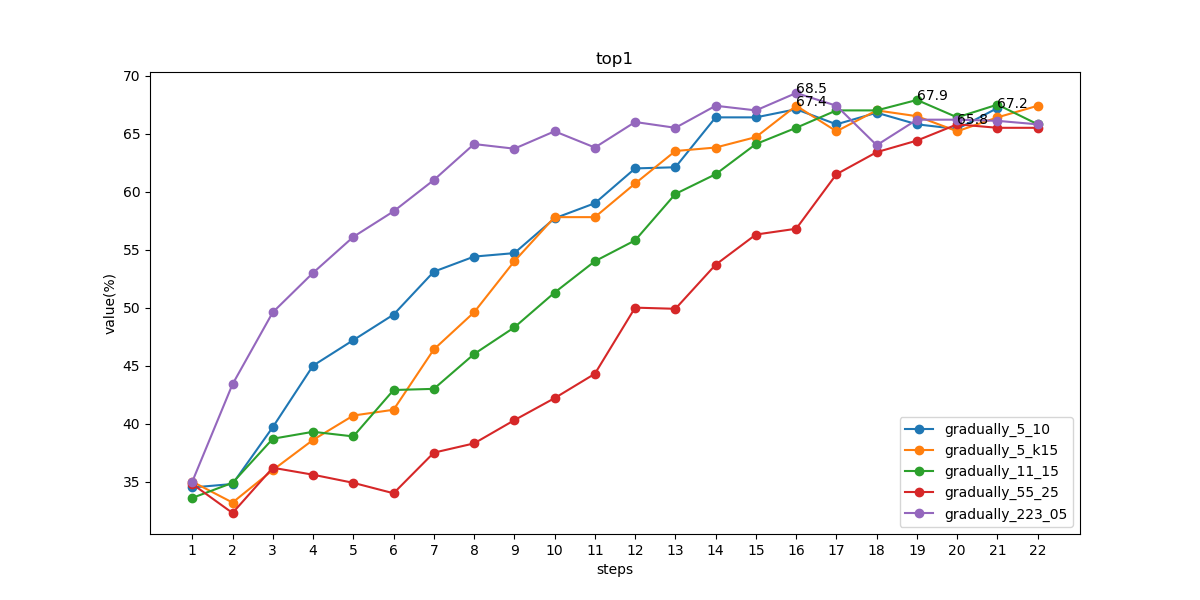
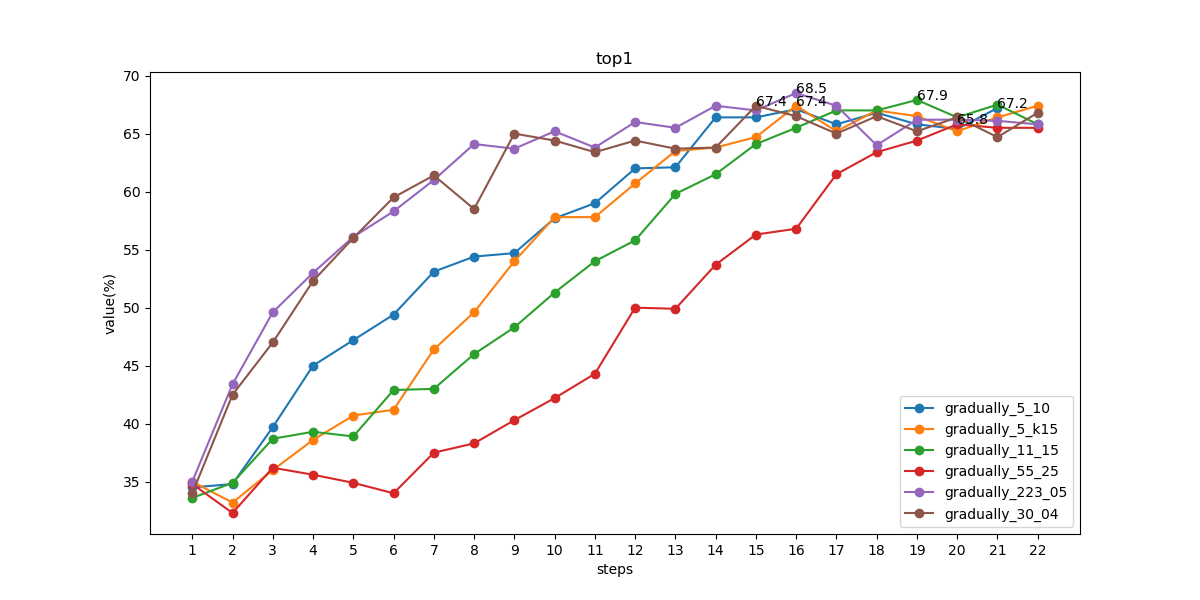
0929-画图不易啊

diff --git a/data.py b/data.py
@@ -120,6 +120,22 @@ gradually_223_05={  #ef 22.3  q 0.5
     "select_num":[0, 334, 472, 578, 667, 745, 817, 882, 943, 1000, 1054, 1105, 1155, 1202, 1247, 1291, 1333, 1374, 1414, 1453, 1490, 1494]
 }
 
+gradually_30_04={  #ef 30  q 0.4
+    "title":"gradually_30_04",
+    "length": 22,
+    "mAP" :       [28.9, 36.2, 40.8, 45.2, 48.4, 51.6, 52.4, 50.8, 56.1, 54.9, 55.2, 55.6, 54.3, 54.8, 57.5, 57.1, 55.3, 56.9, 55.7, 56.9, 55.5, 56.9],
+    "top1" :      [34.0, 42.5, 47.0, 52.3, 56.0, 59.5, 61.4, 58.5, 65.0, 64.4, 63.4, 64.4, 63.7, 63.8, 67.4, 66.5, 65.0, 66.5, 65.2, 66.4, 64.7, 66.8],
+    "top5" :      [49.3, 60.1, 62.7, 70.2, 72.2, 74.1, 75.4, 75.9, 79.6, 77.1, 80.1, 79.2, 78.6, 77.5, 80.5, 80.3, 79.5, 79.9, 78.1, 79.2, 79.8, 78.8],
+    "top10" :     [56.3, 66.4, 68.9, 74.9, 75.9, 79.6, 78.9, 80.3, 83.9, 81.5, 83.3, 82.2, 82.3, 81.6, 85.5, 83.9, 83.5, 84.5, 82.8, 83.2, 83.9, 82.9],
+    "top20" :     [62.4, 71.9, 75.4, 79.6, 81.1, 84.6, 83.8, 85.5, 86.6, 85.9, 86.0, 86.0, 85.8, 85.6, 88.3, 87.6, 86.3, 88.2, 85.9, 87.0, 86.6, 86.5],
+    "label_pre" : [39.7, 49.1, 52.0, 56.1, 58.9, 61.0, 62.2, 63.1, 64.3, 63.9, 64.5, 65.5, 65.0, 65.8, 66.7, 67.3, 67.1, 67.3, 67.3, 67.5, 67.6, 67.6],
+    "select_pre" :[72.83, 77.36, 78.3, 81.05, 82.32, 82.14, 81.99, 80.78, 79.91, 78.6, 77.86, 76.57, 75.38, 74.24, 73.36, 72.63, 71.28, 70.11, 68.82, 67.77, 67.6, 67.6],
+    "train_pre" :[100.0, 91.14, 90.03, 90.56, 90.63, 90.17, 89.75, 88.8, 88.05, 86.98, 86.32, 85.31, 84.38, 83.46, 82.72, 82.09, 81.03, 80.1, 79.08, 78.22, 77.97, 77.91],
+    "select_percent":[0.0, 30.05, 39.63, 46.59, 52.28, 57.16, 61.45, 65.39, 68.94, 72.29, 75.37, 78.31, 81.12, 83.73, 86.28, 88.69, 90.96, 93.24, 95.38, 97.46, 99.46, 100.0],
+    "select_num":[0, 449, 592, 696, 781, 854, 918, 977, 1030, 1080, 1126, 1170, 1212, 1251, 1289, 1325, 1359, 1393, 1425, 1456, 1486, 1494]
+}
+
+
 
 import  numpy as np
 import  math
@@ -212,6 +228,19 @@ def percent_gradually_223_05():
     return xx
 
 
+def percent_gradually_30_04():
+    Nu = 1494.0
+    q = 0.4
+    ef = 30
+    x = np.linspace(1,gradually_30_04["length"],gradually_30_04["length"])
+    def fun(x):
+        num =  min(math.ceil(Nu * math.pow(x-1,q)*(ef/100)),Nu)
+        return round(num*100/Nu,2)
+        # return round(num)
+    xx = list(map(fun,x))
+    print("percent_gradually_30_04",xx)
+    return xx
+
 def get_train_pre(train_name):
     Ln=702
     select_pre = train_name["select_pre"]
@@ -234,4 +263,6 @@ def get_train_pre_all():
 if __name__=="__main__":
     # print(get_len(gradually_5_15))
     # percent_gradually_5_k15()
-    get_train_pre(gradually_223_05)
+    # get_train_pre(gradually_223_05)
+    # percent_gradually_30_04()
+    get_train_pre(gradually_30_04)

diff --git a/main.py b/main.py
@@ -167,7 +167,7 @@ def draw_gradually_percent2(compare_list,compare_item):   #这个函数实现起
 
 def draw_gradually_compare_all():
     compare_list=[gradually_5_10,gradually_5_13,gradually_5_15,gradually_5_k15]
-    compare_list2 = [gradually_5_10, gradually_5_k15, gradually_11_15, gradually_55_25, gradually_223_05]
+    compare_list2 = [gradually_5_10, gradually_5_k15, gradually_11_15, gradually_55_25, gradually_223_05,gradually_30_04]
     compare_items = ["mAP","top1","top5","top10","top20","label_pre","select_pre"]
     compare_items2 = ["mAP", "top1", "top5", "top10", "top20", "label_pre", "select_pre", "train_pre"]
     for item in compare_items2:
@@ -236,6 +236,48 @@ def select_pre_with_mAPtop1(train_name):
     plt.savefig("select_pre_with_mAPtop1/"+title)
     plt.show()
 
+import  codecs
+def init_outf(file_name):
+    f = codecs.open(file_name, 'r', 'utf-8')
+    datas = f.readlines()
+    steps = []
+    mPAs = []
+    top1s = []
+    top5s = []
+    top10s = []
+    top20s = []
+    label_pres = []
+    select_pres = []
+    for line in datas:
+        line = line.strip()
+        ll = line.split(" ")
+        step =int( ll[0].split('/')[0] )
+        steps.append(step)
+
+        mPA = round(float(ll[2][:-1]),1)
+        top1 = round(float(ll[10][:-1]),1)
+        top5 = round(float(ll[18][:-1]),1)
+        top10 = round(float(ll[26][:-1]),1)
+        top20 = round(float(ll[34][:-1]),1)
+        label_pre = round(float(ll[37])*100,1)
+        select_pre = round(float(ll[40])*100,2)
+
+        mPAs.append(mPA)
+        top1s.append(top1)
+        top5s.append(top5)
+        top10s.append(top10)
+        top20s.append(top20)
+        label_pres.append(label_pre)
+        select_pres.append(select_pre)
+    print(steps)
+    print(mPAs)
+    print(top1s)
+    print(top5s)
+    print(top10s)
+    print(top20s)
+    print(label_pres)
+    print(select_pres)
+
 
 
 
@@ -244,7 +286,11 @@ if __name__ =="__main__":
     # draw_lines_for_all_train()
     # draw_gradually_compare_all()
     # draw_gradually_all_percent2()
-    draw_gradually_compare_all()
+    # draw_gradually_compare_all()
     # draw_gradually_all_percent2
+    # init_outf("requeir_data1.txt")
+
+    draw_gradually_compare_all()
     # draw_line()
     # select_pre_with_mAP_for_all()
+
